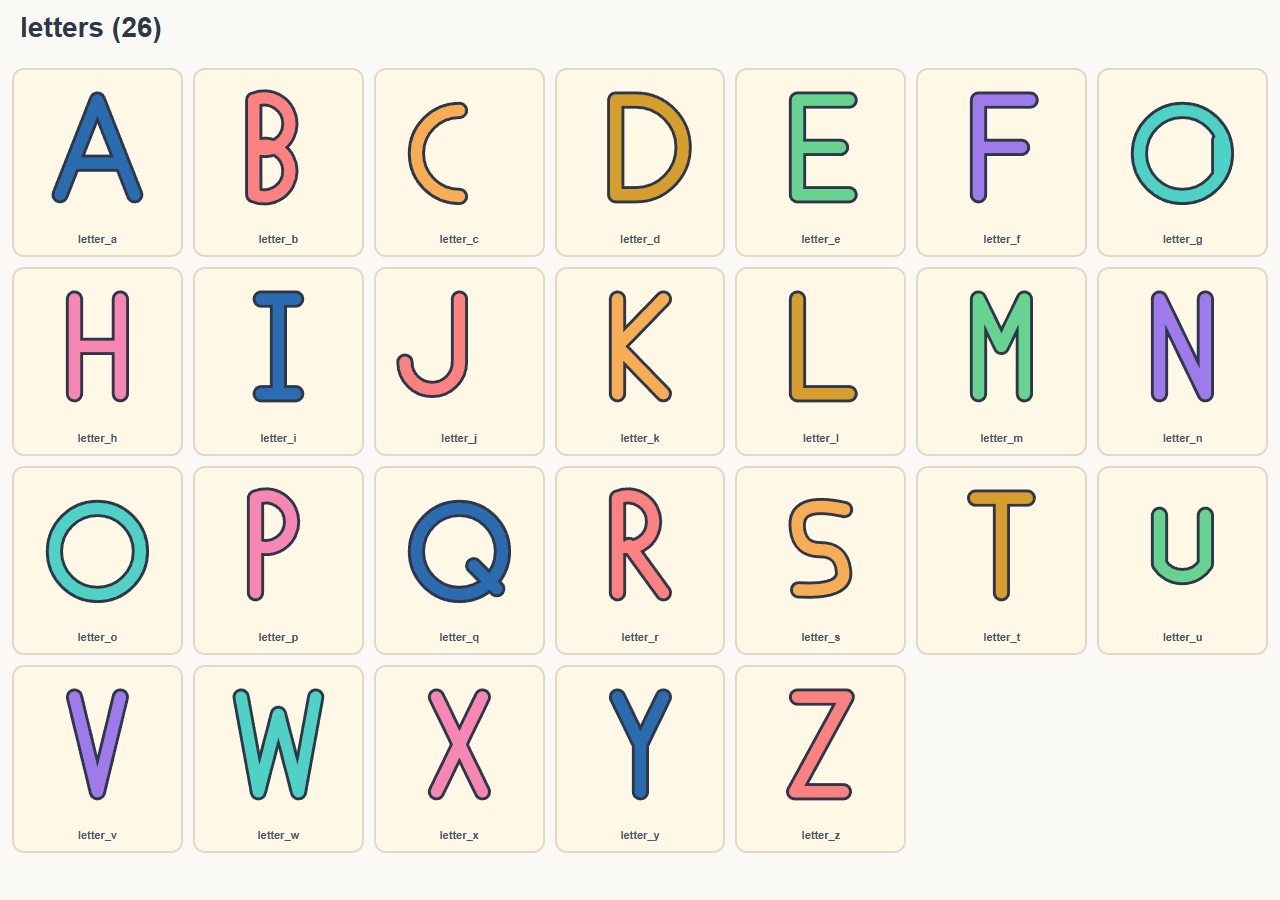
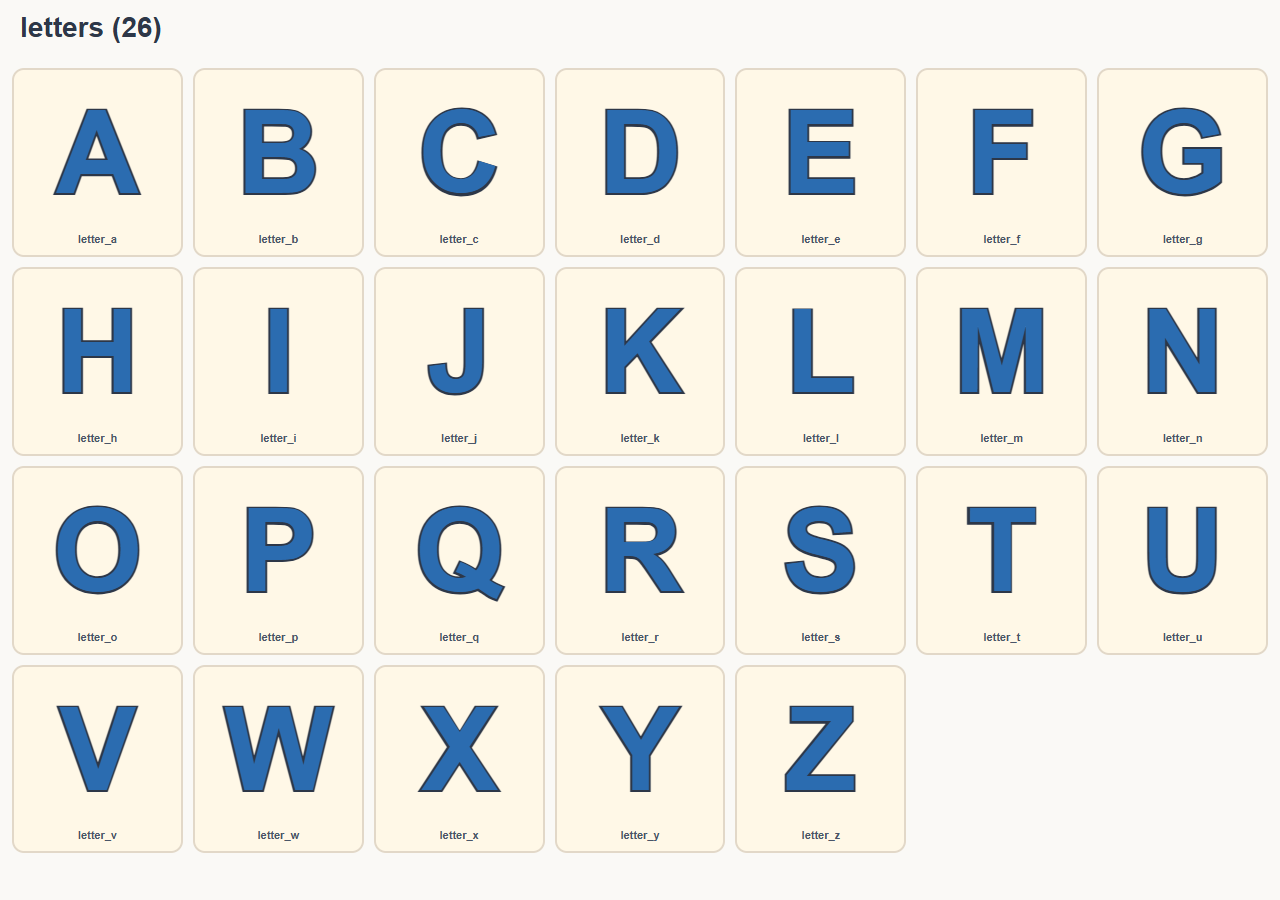
fix(assets): revert letters and numerals to pre-polish Arial text versions

diff --git a/docs/svg-contact-sheets/final/letters.html b/docs/svg-contact-sheets/final/letters.html
@@ -9,160 +9,82 @@
 </style></head><body>
 <h1>letters (26)</h1>
 <div class="grid"><div class="cell"><div class="art"><svg xmlns="http://www.w3.org/2000/svg" viewBox="0 0 512 512">
-  <g fill="none" stroke-linecap="round" stroke-linejoin="round">
-    <path d="M 126 400 L 256 70 L 386 400 M 176 290 L 336 290" stroke="#2D3748" stroke-width="60"/>
-    <path d="M 126 400 L 256 70 L 386 400 M 176 290 L 336 290" stroke="#2B6CB0" stroke-width="40"/>
-  </g>
+  <text x="256" y="256" text-anchor="middle" dominant-baseline="central" font-family="Arial, Helvetica, sans-serif" font-weight="bold" font-size="400" fill="#2B6CB0" stroke="#2D3748" stroke-width="14" paint-order="stroke fill">A</text>
 </svg>
 </div><div class="label">letter_a</div></div><div class="cell"><div class="art"><svg xmlns="http://www.w3.org/2000/svg" viewBox="0 0 512 512">
-  <g fill="none" stroke-linecap="round" stroke-linejoin="round">
-    <path d="M 170 400 L 170 70 A 90 90 0 1 1 170 235 A 90 90 0 1 1 170 400" stroke="#2D3748" stroke-width="60"/>
-    <path d="M 170 400 L 170 70 A 90 90 0 1 1 170 235 A 90 90 0 1 1 170 400" stroke="#FC8181" stroke-width="40"/>
-  </g>
+  <text x="256" y="256" text-anchor="middle" dominant-baseline="central" font-family="Arial, Helvetica, sans-serif" font-weight="bold" font-size="400" fill="#2B6CB0" stroke="#2D3748" stroke-width="14" paint-order="stroke fill">B</text>
 </svg>
 </div><div class="label">letter_b</div></div><div class="cell"><div class="art"><svg xmlns="http://www.w3.org/2000/svg" viewBox="0 0 512 512">
-  <g fill="none" stroke-linecap="round" stroke-linejoin="round">
-    <path d="M 256 106 A 150 150 0 1 0 256 406" stroke="#2D3748" stroke-width="60"/>
-    <path d="M 256 106 A 150 150 0 1 0 256 406" stroke="#F6AD55" stroke-width="40"/>
-  </g>
+  <text x="256" y="256" text-anchor="middle" dominant-baseline="central" font-family="Arial, Helvetica, sans-serif" font-weight="bold" font-size="400" fill="#2B6CB0" stroke="#2D3748" stroke-width="14" paint-order="stroke fill">C</text>
 </svg>
 </div><div class="label">letter_c</div></div><div class="cell"><div class="art"><svg xmlns="http://www.w3.org/2000/svg" viewBox="0 0 512 512">
-  <g fill="none" stroke-linecap="round" stroke-linejoin="round">
-    <path d="M 170 400 L 170 70 L 240 70 A 165 165 0 0 1 240 400 Z" stroke="#2D3748" stroke-width="60"/>
-    <path d="M 170 400 L 170 70 L 240 70 A 165 165 0 0 1 240 400 Z" stroke="#D69E2E" stroke-width="40"/>
-  </g>
+  <text x="256" y="256" text-anchor="middle" dominant-baseline="central" font-family="Arial, Helvetica, sans-serif" font-weight="bold" font-size="400" fill="#2B6CB0" stroke="#2D3748" stroke-width="14" paint-order="stroke fill">D</text>
 </svg>
 </div><div class="label">letter_d</div></div><div class="cell"><div class="art"><svg xmlns="http://www.w3.org/2000/svg" viewBox="0 0 512 512">
-  <g fill="none" stroke-linecap="round" stroke-linejoin="round">
-    <path d="M 176 70 L 356 70 M 176 235 L 326 235 M 176 400 L 356 400 M 176 70 L 176 400" stroke="#2D3748" stroke-width="60"/>
-    <path d="M 176 70 L 356 70 M 176 235 L 326 235 M 176 400 L 356 400 M 176 70 L 176 400" stroke="#68D391" stroke-width="40"/>
-  </g>
+  <text x="256" y="256" text-anchor="middle" dominant-baseline="central" font-family="Arial, Helvetica, sans-serif" font-weight="bold" font-size="400" fill="#2B6CB0" stroke="#2D3748" stroke-width="14" paint-order="stroke fill">E</text>
 </svg>
 </div><div class="label">letter_e</div></div><div class="cell"><div class="art"><svg xmlns="http://www.w3.org/2000/svg" viewBox="0 0 512 512">
-  <g fill="none" stroke-linecap="round" stroke-linejoin="round">
-    <path d="M 176 400 L 176 70 L 356 70 M 176 235 L 326 235" stroke="#2D3748" stroke-width="60"/>
-    <path d="M 176 400 L 176 70 L 356 70 M 176 235 L 326 235" stroke="#9F7AEA" stroke-width="40"/>
-  </g>
+  <text x="256" y="256" text-anchor="middle" dominant-baseline="central" font-family="Arial, Helvetica, sans-serif" font-weight="bold" font-size="400" fill="#2B6CB0" stroke="#2D3748" stroke-width="14" paint-order="stroke fill">F</text>
 </svg>
 </div><div class="label">letter_f</div></div><div class="cell"><div class="art"><svg xmlns="http://www.w3.org/2000/svg" viewBox="0 0 512 512">
-  <g fill="none" stroke-linecap="round" stroke-linejoin="round">
-    <path d="M 256 106 A 150 150 0 1 0 256 406 A 150 150 0 1 0 256 106 M 386 210 L 386 330" stroke="#2D3748" stroke-width="60"/>
-    <path d="M 256 106 A 150 150 0 1 0 256 406 A 150 150 0 1 0 256 106 M 386 210 L 386 330" stroke="#4FD1C5" stroke-width="40"/>
-  </g>
+  <text x="256" y="256" text-anchor="middle" dominant-baseline="central" font-family="Arial, Helvetica, sans-serif" font-weight="bold" font-size="400" fill="#2B6CB0" stroke="#2D3748" stroke-width="14" paint-order="stroke fill">G</text>
 </svg>
 </div><div class="label">letter_g</div></div><div class="cell"><div class="art"><svg xmlns="http://www.w3.org/2000/svg" viewBox="0 0 512 512">
-  <g fill="none" stroke-linecap="round" stroke-linejoin="round">
-    <path d="M 176 70 L 176 400 M 336 70 L 336 400 M 176 235 L 336 235" stroke="#2D3748" stroke-width="60"/>
-    <path d="M 176 70 L 176 400 M 336 70 L 336 400 M 176 235 L 336 235" stroke="#F687B3" stroke-width="40"/>
-  </g>
+  <text x="256" y="256" text-anchor="middle" dominant-baseline="central" font-family="Arial, Helvetica, sans-serif" font-weight="bold" font-size="400" fill="#2B6CB0" stroke="#2D3748" stroke-width="14" paint-order="stroke fill">H</text>
 </svg>
 </div><div class="label">letter_h</div></div><div class="cell"><div class="art"><svg xmlns="http://www.w3.org/2000/svg" viewBox="0 0 512 512">
-  <g fill="none" stroke-linecap="round" stroke-linejoin="round">
-    <path d="M 256 70 L 256 400 M 196 70 L 316 70 M 196 400 L 316 400" stroke="#2D3748" stroke-width="60"/>
-    <path d="M 256 70 L 256 400 M 196 70 L 316 70 M 196 400 L 316 400" stroke="#2B6CB0" stroke-width="40"/>
-  </g>
+  <text x="256" y="256" text-anchor="middle" dominant-baseline="central" font-family="Arial, Helvetica, sans-serif" font-weight="bold" font-size="400" fill="#2B6CB0" stroke="#2D3748" stroke-width="14" paint-order="stroke fill">I</text>
 </svg>
 </div><div class="label">letter_i</div></div><div class="cell"><div class="art"><svg xmlns="http://www.w3.org/2000/svg" viewBox="0 0 512 512">
-  <g fill="none" stroke-linecap="round" stroke-linejoin="round">
-    <path d="M 256 70 L 256 290 A 95 95 0 1 1 66 290" stroke="#2D3748" stroke-width="60"/>
-    <path d="M 256 70 L 256 290 A 95 95 0 1 1 66 290" stroke="#FC8181" stroke-width="40"/>
-  </g>
+  <text x="256" y="256" text-anchor="middle" dominant-baseline="central" font-family="Arial, Helvetica, sans-serif" font-weight="bold" font-size="400" fill="#2B6CB0" stroke="#2D3748" stroke-width="14" paint-order="stroke fill">J</text>
 </svg>
 </div><div class="label">letter_j</div></div><div class="cell"><div class="art"><svg xmlns="http://www.w3.org/2000/svg" viewBox="0 0 512 512">
-  <g fill="none" stroke-linecap="round" stroke-linejoin="round">
-    <path d="M 176 70 L 176 400 M 176 235 L 336 70 M 176 235 L 336 400" stroke="#2D3748" stroke-width="60"/>
-    <path d="M 176 70 L 176 400 M 176 235 L 336 70 M 176 235 L 336 400" stroke="#F6AD55" stroke-width="40"/>
-  </g>
+  <text x="256" y="256" text-anchor="middle" dominant-baseline="central" font-family="Arial, Helvetica, sans-serif" font-weight="bold" font-size="400" fill="#2B6CB0" stroke="#2D3748" stroke-width="14" paint-order="stroke fill">K</text>
 </svg>
 </div><div class="label">letter_k</div></div><div class="cell"><div class="art"><svg xmlns="http://www.w3.org/2000/svg" viewBox="0 0 512 512">
-  <g fill="none" stroke-linecap="round" stroke-linejoin="round">
-    <path d="M 176 70 L 176 400 L 356 400" stroke="#2D3748" stroke-width="60"/>
-    <path d="M 176 70 L 176 400 L 356 400" stroke="#D69E2E" stroke-width="40"/>
-  </g>
+  <text x="256" y="256" text-anchor="middle" dominant-baseline="central" font-family="Arial, Helvetica, sans-serif" font-weight="bold" font-size="400" fill="#2B6CB0" stroke="#2D3748" stroke-width="14" paint-order="stroke fill">L</text>
 </svg>
 </div><div class="label">letter_l</div></div><div class="cell"><div class="art"><svg xmlns="http://www.w3.org/2000/svg" viewBox="0 0 512 512">
-  <g fill="none" stroke-linecap="round" stroke-linejoin="round">
-    <path d="M 176 400 L 176 70 L 256 235 L 336 70 L 336 400" stroke="#2D3748" stroke-width="60"/>
-    <path d="M 176 400 L 176 70 L 256 235 L 336 70 L 336 400" stroke="#68D391" stroke-width="40"/>
-  </g>
+  <text x="256" y="256" text-anchor="middle" dominant-baseline="central" font-family="Arial, Helvetica, sans-serif" font-weight="bold" font-size="400" fill="#2B6CB0" stroke="#2D3748" stroke-width="14" paint-order="stroke fill">M</text>
 </svg>
 </div><div class="label">letter_m</div></div><div class="cell"><div class="art"><svg xmlns="http://www.w3.org/2000/svg" viewBox="0 0 512 512">
-  <g fill="none" stroke-linecap="round" stroke-linejoin="round">
-    <path d="M 176 400 L 176 70 L 336 400 L 336 70" stroke="#2D3748" stroke-width="60"/>
-    <path d="M 176 400 L 176 70 L 336 400 L 336 70" stroke="#9F7AEA" stroke-width="40"/>
-  </g>
+  <text x="256" y="256" text-anchor="middle" dominant-baseline="central" font-family="Arial, Helvetica, sans-serif" font-weight="bold" font-size="400" fill="#2B6CB0" stroke="#2D3748" stroke-width="14" paint-order="stroke fill">N</text>
 </svg>
 </div><div class="label">letter_n</div></div><div class="cell"><div class="art"><svg xmlns="http://www.w3.org/2000/svg" viewBox="0 0 512 512">
-  <g fill="none" stroke-linecap="round" stroke-linejoin="round">
-    <path d="M 256 106 A 150 150 0 1 0 256 406 A 150 150 0 1 0 256 106" stroke="#2D3748" stroke-width="60"/>
-    <path d="M 256 106 A 150 150 0 1 0 256 406 A 150 150 0 1 0 256 106" stroke="#4FD1C5" stroke-width="40"/>
-  </g>
+  <text x="256" y="256" text-anchor="middle" dominant-baseline="central" font-family="Arial, Helvetica, sans-serif" font-weight="bold" font-size="400" fill="#2B6CB0" stroke="#2D3748" stroke-width="14" paint-order="stroke fill">O</text>
 </svg>
 </div><div class="label">letter_o</div></div><div class="cell"><div class="art"><svg xmlns="http://www.w3.org/2000/svg" viewBox="0 0 512 512">
-  <g fill="none" stroke-linecap="round" stroke-linejoin="round">
-    <path d="M 176 400 L 176 70 A 90 90 0 1 1 176 235" stroke="#2D3748" stroke-width="60"/>
-    <path d="M 176 400 L 176 70 A 90 90 0 1 1 176 235" stroke="#F687B3" stroke-width="40"/>
-  </g>
+  <text x="256" y="256" text-anchor="middle" dominant-baseline="central" font-family="Arial, Helvetica, sans-serif" font-weight="bold" font-size="400" fill="#2B6CB0" stroke="#2D3748" stroke-width="14" paint-order="stroke fill">P</text>
 </svg>
 </div><div class="label">letter_p</div></div><div class="cell"><div class="art"><svg xmlns="http://www.w3.org/2000/svg" viewBox="0 0 512 512">
-  <g fill="none" stroke-linecap="round" stroke-linejoin="round">
-    <path d="M 256 106 A 150 150 0 1 0 256 406 A 150 150 0 1 0 256 106 M 306 306 L 386 386" stroke="#2D3748" stroke-width="60"/>
-    <path d="M 256 106 A 150 150 0 1 0 256 406 A 150 150 0 1 0 256 106 M 306 306 L 386 386" stroke="#2B6CB0" stroke-width="40"/>
-  </g>
+  <text x="256" y="256" text-anchor="middle" dominant-baseline="central" font-family="Arial, Helvetica, sans-serif" font-weight="bold" font-size="400" fill="#2B6CB0" stroke="#2D3748" stroke-width="14" paint-order="stroke fill">Q</text>
 </svg>
 </div><div class="label">letter_q</div></div><div class="cell"><div class="art"><svg xmlns="http://www.w3.org/2000/svg" viewBox="0 0 512 512">
-  <g fill="none" stroke-linecap="round" stroke-linejoin="round">
-    <path d="M 176 400 L 176 70 A 90 90 0 1 1 176 235 M 216 235 L 336 400" stroke="#2D3748" stroke-width="60"/>
-    <path d="M 176 400 L 176 70 A 90 90 0 1 1 176 235 M 216 235 L 336 400" stroke="#FC8181" stroke-width="40"/>
-  </g>
+  <text x="256" y="256" text-anchor="middle" dominant-baseline="central" font-family="Arial, Helvetica, sans-serif" font-weight="bold" font-size="400" fill="#2B6CB0" stroke="#2D3748" stroke-width="14" paint-order="stroke fill">R</text>
 </svg>
 </div><div class="label">letter_r</div></div><div class="cell"><div class="art"><svg xmlns="http://www.w3.org/2000/svg" viewBox="0 0 512 512">
-  <g fill="none" stroke-linecap="round" stroke-linejoin="round">
-    <path d="M 340 110 Q 160 70 176 180 Q 185 250 256 250 Q 327 250 336 320 Q 350 400 180 390" stroke="#2D3748" stroke-width="60"/>
-    <path d="M 340 110 Q 160 70 176 180 Q 185 250 256 250 Q 327 250 336 320 Q 350 400 180 390" stroke="#F6AD55" stroke-width="40"/>
-  </g>
+  <text x="256" y="256" text-anchor="middle" dominant-baseline="central" font-family="Arial, Helvetica, sans-serif" font-weight="bold" font-size="400" fill="#2B6CB0" stroke="#2D3748" stroke-width="14" paint-order="stroke fill">S</text>
 </svg>
 </div><div class="label">letter_s</div></div><div class="cell"><div class="art"><svg xmlns="http://www.w3.org/2000/svg" viewBox="0 0 512 512">
-  <g fill="none" stroke-linecap="round" stroke-linejoin="round">
-    <path d="M 166 70 L 346 70 M 256 70 L 256 400" stroke="#2D3748" stroke-width="60"/>
-    <path d="M 166 70 L 346 70 M 256 70 L 256 400" stroke="#D69E2E" stroke-width="40"/>
-  </g>
+  <text x="256" y="256" text-anchor="middle" dominant-baseline="central" font-family="Arial, Helvetica, sans-serif" font-weight="bold" font-size="400" fill="#2B6CB0" stroke="#2D3748" stroke-width="14" paint-order="stroke fill">T</text>
 </svg>
 </div><div class="label">letter_t</div></div><div class="cell"><div class="art"><svg xmlns="http://www.w3.org/2000/svg" viewBox="0 0 512 512">
-  <g fill="none" stroke-linecap="round" stroke-linejoin="round">
-    <path d="M 176 130 L 176 300 A 95 95 0 0 0 336 300 L 336 130" stroke="#2D3748" stroke-width="60"/>
-    <path d="M 176 130 L 176 300 A 95 95 0 0 0 336 300 L 336 130" stroke="#68D391" stroke-width="40"/>
-  </g>
+  <text x="256" y="256" text-anchor="middle" dominant-baseline="central" font-family="Arial, Helvetica, sans-serif" font-weight="bold" font-size="400" fill="#2B6CB0" stroke="#2D3748" stroke-width="14" paint-order="stroke fill">U</text>
 </svg>
 </div><div class="label">letter_u</div></div><div class="cell"><div class="art"><svg xmlns="http://www.w3.org/2000/svg" viewBox="0 0 512 512">
-  <g fill="none" stroke-linecap="round" stroke-linejoin="round">
-    <path d="M 176 70 L 256 400 L 336 70" stroke="#2D3748" stroke-width="60"/>
-    <path d="M 176 70 L 256 400 L 336 70" stroke="#9F7AEA" stroke-width="40"/>
-  </g>
+  <text x="256" y="256" text-anchor="middle" dominant-baseline="central" font-family="Arial, Helvetica, sans-serif" font-weight="bold" font-size="400" fill="#2B6CB0" stroke="#2D3748" stroke-width="14" paint-order="stroke fill">V</text>
 </svg>
 </div><div class="label">letter_v</div></div><div class="cell"><div class="art"><svg xmlns="http://www.w3.org/2000/svg" viewBox="0 0 512 512">
-  <g fill="none" stroke-linecap="round" stroke-linejoin="round">
-    <path d="M 126 70 L 186 400 L 256 130 L 326 400 L 386 70" stroke="#2D3748" stroke-width="60"/>
-    <path d="M 126 70 L 186 400 L 256 130 L 326 400 L 386 70" stroke="#4FD1C5" stroke-width="40"/>
-  </g>
+  <text x="256" y="256" text-anchor="middle" dominant-baseline="central" font-family="Arial, Helvetica, sans-serif" font-weight="bold" font-size="400" fill="#2B6CB0" stroke="#2D3748" stroke-width="14" paint-order="stroke fill">W</text>
 </svg>
 </div><div class="label">letter_w</div></div><div class="cell"><div class="art"><svg xmlns="http://www.w3.org/2000/svg" viewBox="0 0 512 512">
-  <g fill="none" stroke-linecap="round" stroke-linejoin="round">
-    <path d="M 176 70 L 336 400 M 336 70 L 176 400" stroke="#2D3748" stroke-width="60"/>
-    <path d="M 176 70 L 336 400 M 336 70 L 176 400" stroke="#F687B3" stroke-width="40"/>
-  </g>
+  <text x="256" y="256" text-anchor="middle" dominant-baseline="central" font-family="Arial, Helvetica, sans-serif" font-weight="bold" font-size="400" fill="#2B6CB0" stroke="#2D3748" stroke-width="14" paint-order="stroke fill">X</text>
 </svg>
 </div><div class="label">letter_x</div></div><div class="cell"><div class="art"><svg xmlns="http://www.w3.org/2000/svg" viewBox="0 0 512 512">
-  <g fill="none" stroke-linecap="round" stroke-linejoin="round">
-    <path d="M 176 70 L 256 235 L 336 70 M 256 235 L 256 400" stroke="#2D3748" stroke-width="60"/>
-    <path d="M 176 70 L 256 235 L 336 70 M 256 235 L 256 400" stroke="#2B6CB0" stroke-width="40"/>
-  </g>
+  <text x="256" y="256" text-anchor="middle" dominant-baseline="central" font-family="Arial, Helvetica, sans-serif" font-weight="bold" font-size="400" fill="#2B6CB0" stroke="#2D3748" stroke-width="14" paint-order="stroke fill">Y</text>
 </svg>
 </div><div class="label">letter_y</div></div><div class="cell"><div class="art"><svg xmlns="http://www.w3.org/2000/svg" viewBox="0 0 512 512">
-  <g fill="none" stroke-linecap="round" stroke-linejoin="round">
-    <path d="M 176 70 L 346 70 L 166 400 L 336 400" stroke="#2D3748" stroke-width="60"/>
-    <path d="M 176 70 L 346 70 L 166 400 L 336 400" stroke="#FC8181" stroke-width="40"/>
-  </g>
+  <text x="256" y="256" text-anchor="middle" dominant-baseline="central" font-family="Arial, Helvetica, sans-serif" font-weight="bold" font-size="400" fill="#2B6CB0" stroke="#2D3748" stroke-width="14" paint-order="stroke fill">Z</text>
 </svg>
 </div><div class="label">letter_z</div></div></div>
 </body></html>

diff --git a/docs/svg-contact-sheets/final/numbers.html b/docs/svg-contact-sheets/final/numbers.html
@@ -9,64 +9,34 @@
 </style></head><body>
 <h1>numbers (10)</h1>
 <div class="grid"><div class="cell"><div class="art"><svg xmlns="http://www.w3.org/2000/svg" viewBox="0 0 512 512">
-  <g fill="none" stroke-linecap="round" stroke-linejoin="round">
-    <path d="M 256 116 A 140 140 0 1 0 256 396 A 140 140 0 1 0 256 116" stroke="#2D3748" stroke-width="60"/>
-    <path d="M 256 116 A 140 140 0 1 0 256 396 A 140 140 0 1 0 256 116" stroke="#2B6CB0" stroke-width="40"/>
-  </g>
+  <text x="256" y="256" text-anchor="middle" dominant-baseline="central" font-family="Arial, Helvetica, sans-serif" font-weight="bold" font-size="400" fill="#2B6CB0" stroke="#2D3748" stroke-width="14" paint-order="stroke fill">0</text>
 </svg>
 </div><div class="label">numeral_0</div></div><div class="cell"><div class="art"><svg xmlns="http://www.w3.org/2000/svg" viewBox="0 0 512 512">
-  <g fill="none" stroke-linecap="round" stroke-linejoin="round">
-    <path d="M 312 64 Q 268 52 246 96 L 246 400 M 176 400 L 326 400" stroke="#2D3748" stroke-width="60"/>
-    <path d="M 312 64 Q 268 52 246 96 L 246 400 M 176 400 L 326 400" stroke="#FC8181" stroke-width="40"/>
-  </g>
+  <text x="256" y="256" text-anchor="middle" dominant-baseline="central" font-family="Arial, Helvetica, sans-serif" font-weight="bold" font-size="400" fill="#2B6CB0" stroke="#2D3748" stroke-width="14" paint-order="stroke fill">1</text>
 </svg>
 </div><div class="label">numeral_1</div></div><div class="cell"><div class="art"><svg xmlns="http://www.w3.org/2000/svg" viewBox="0 0 512 512">
-  <g fill="none" stroke-linecap="round" stroke-linejoin="round">
-    <path d="M 166 150 Q 256 40 346 145 Q 355 240 265 295 L 170 400 L 346 400" stroke="#2D3748" stroke-width="60"/>
-    <path d="M 166 150 Q 256 40 346 145 Q 355 240 265 295 L 170 400 L 346 400" stroke="#F6AD55" stroke-width="40"/>
-  </g>
+  <text x="256" y="256" text-anchor="middle" dominant-baseline="central" font-family="Arial, Helvetica, sans-serif" font-weight="bold" font-size="400" fill="#2B6CB0" stroke="#2D3748" stroke-width="14" paint-order="stroke fill">2</text>
 </svg>
 </div><div class="label">numeral_2</div></div><div class="cell"><div class="art"><svg xmlns="http://www.w3.org/2000/svg" viewBox="0 0 512 512">
-  <g fill="none" stroke-linecap="round" stroke-linejoin="round">
-    <path d="M 180 120 Q 180 80 240 80 Q 310 80 310 165 Q 310 215 260 250 Q 320 280 320 340 Q 320 420 230 420 Q 140 420 140 350" stroke="#2D3748" stroke-width="60"/>
-    <path d="M 180 120 Q 180 80 240 80 Q 310 80 310 165 Q 310 215 260 250 Q 320 280 320 340 Q 320 420 230 420 Q 140 420 140 350" stroke="#D69E2E" stroke-width="40"/>
-  </g>
+  <text x="256" y="256" text-anchor="middle" dominant-baseline="central" font-family="Arial, Helvetica, sans-serif" font-weight="bold" font-size="400" fill="#2B6CB0" stroke="#2D3748" stroke-width="14" paint-order="stroke fill">3</text>
 </svg>
 </div><div class="label">numeral_3</div></div><div class="cell"><div class="art"><svg xmlns="http://www.w3.org/2000/svg" viewBox="0 0 512 512">
-  <g fill="none" stroke-linecap="round" stroke-linejoin="round">
-    <path d="M 336 90 L 216 250 M 156 250 L 336 250 M 336 90 L 336 400" stroke="#2D3748" stroke-width="60"/>
-    <path d="M 336 90 L 216 250 M 156 250 L 336 250 M 336 90 L 336 400" stroke="#68D391" stroke-width="40"/>
-  </g>
+  <text x="256" y="256" text-anchor="middle" dominant-baseline="central" font-family="Arial, Helvetica, sans-serif" font-weight="bold" font-size="400" fill="#2B6CB0" stroke="#2D3748" stroke-width="14" paint-order="stroke fill">4</text>
 </svg>
 </div><div class="label">numeral_4</div></div><div class="cell"><div class="art"><svg xmlns="http://www.w3.org/2000/svg" viewBox="0 0 512 512">
-  <g fill="none" stroke-linecap="round" stroke-linejoin="round">
-    <path d="M 346 80 L 166 80 L 166 235 L 306 235 A 85 85 0 0 1 306 400 L 176 400" stroke="#2D3748" stroke-width="60"/>
-    <path d="M 346 80 L 166 80 L 166 235 L 306 235 A 85 85 0 0 1 306 400 L 176 400" stroke="#9F7AEA" stroke-width="40"/>
-  </g>
+  <text x="256" y="256" text-anchor="middle" dominant-baseline="central" font-family="Arial, Helvetica, sans-serif" font-weight="bold" font-size="400" fill="#2B6CB0" stroke="#2D3748" stroke-width="14" paint-order="stroke fill">5</text>
 </svg>
 </div><div class="label">numeral_5</div></div><div class="cell"><div class="art"><svg xmlns="http://www.w3.org/2000/svg" viewBox="0 0 512 512">
-  <g fill="none" stroke-linecap="round" stroke-linejoin="round">
-    <path d="M 240 82 A 58 58 0 1 0 240 198 A 58 58 0 1 0 240 82 M 199 181 Q 185 215 175 249 M 256 215 A 115 115 0 1 0 256 445 A 115 115 0 1 0 256 215" stroke="#2D3748" stroke-width="60"/>
-    <path d="M 240 82 A 58 58 0 1 0 240 198 A 58 58 0 1 0 240 82 M 199 181 Q 185 215 175 249 M 256 215 A 115 115 0 1 0 256 445 A 115 115 0 1 0 256 215" stroke="#4FD1C5" stroke-width="40"/>
-  </g>
+  <text x="256" y="256" text-anchor="middle" dominant-baseline="central" font-family="Arial, Helvetica, sans-serif" font-weight="bold" font-size="400" fill="#2B6CB0" stroke="#2D3748" stroke-width="14" paint-order="stroke fill">6</text>
 </svg>
 </div><div class="label">numeral_6</div></div><div class="cell"><div class="art"><svg xmlns="http://www.w3.org/2000/svg" viewBox="0 0 512 512">
-  <g fill="none" stroke-linecap="round" stroke-linejoin="round">
-    <path d="M 166 80 L 336 80 Q 326 220 256 400" stroke="#2D3748" stroke-width="60"/>
-    <path d="M 166 80 L 336 80 Q 326 220 256 400" stroke="#F687B3" stroke-width="40"/>
-  </g>
+  <text x="256" y="256" text-anchor="middle" dominant-baseline="central" font-family="Arial, Helvetica, sans-serif" font-weight="bold" font-size="400" fill="#2B6CB0" stroke="#2D3748" stroke-width="14" paint-order="stroke fill">7</text>
 </svg>
 </div><div class="label">numeral_7</div></div><div class="cell"><div class="art"><svg xmlns="http://www.w3.org/2000/svg" viewBox="0 0 512 512">
-  <g fill="none" stroke-linecap="round" stroke-linejoin="round">
-    <path d="M 256 80 A 80 80 0 1 1 256 240 A 80 80 0 1 1 256 80 M 256 260 A 80 80 0 1 1 256 420 A 80 80 0 1 1 256 260" stroke="#2D3748" stroke-width="60"/>
-    <path d="M 256 80 A 80 80 0 1 1 256 240 A 80 80 0 1 1 256 80 M 256 260 A 80 80 0 1 1 256 420 A 80 80 0 1 1 256 260" stroke="#2B6CB0" stroke-width="40"/>
-  </g>
+  <text x="256" y="256" text-anchor="middle" dominant-baseline="central" font-family="Arial, Helvetica, sans-serif" font-weight="bold" font-size="400" fill="#2B6CB0" stroke="#2D3748" stroke-width="14" paint-order="stroke fill">8</text>
 </svg>
 </div><div class="label">numeral_8</div></div><div class="cell"><div class="art"><svg xmlns="http://www.w3.org/2000/svg" viewBox="0 0 512 512">
-  <g fill="none" stroke-linecap="round" stroke-linejoin="round">
-    <path d="M 256 70 A 115 115 0 1 0 256 300 A 115 115 0 1 0 256 70 M 337 266 Q 380 340 330 400 Q 300 420 254 412" stroke="#2D3748" stroke-width="60"/>
-    <path d="M 256 70 A 115 115 0 1 0 256 300 A 115 115 0 1 0 256 70 M 337 266 Q 380 340 330 400 Q 300 420 254 412" stroke="#FC8181" stroke-width="40"/>
-  </g>
+  <text x="256" y="256" text-anchor="middle" dominant-baseline="central" font-family="Arial, Helvetica, sans-serif" font-weight="bold" font-size="400" fill="#2B6CB0" stroke="#2D3748" stroke-width="14" paint-order="stroke fill">9</text>
 </svg>
 </div><div class="label">numeral_9</div></div></div>
 </body></html>

diff --git a/docs/SVG_STYLE.md b/docs/SVG_STYLE.md
@@ -49,7 +49,9 @@ Filled shapes (circles, hearts, animal bodies): fill + outer stroke in one pass 
 
 ## 4. Letterforms & Numerals (letters/, numbers/)
 
-**Replace all `<text>` elements with custom stroked paths.**
+**Reverted to system-font `<text>` glyphs (2026-08-06, track feedback round 2):** the custom stroked-path letterforms were replaced back with the pre-polish Arial style — bold uppercase `Arial, Helvetica, sans-serif`, 400px, `fill="#2B6CB0"`, `stroke="#2D3748" stroke-width="14"`, `paint-order="stroke fill"`, centered at 256/256. Letters are distinguished by shape only (identical styling across all 26 + 10). Known tradeoff: outline reads thin vs the rest of the library — acceptable; custom paths are NOT to be reintroduced for letters/numbers without product sign-off.
+
+Retained guidance for any *other* stroked text (stickers/tiles accents):
 
 | Metric | Value |
 |---|---|
@@ -68,7 +70,7 @@ Construction: each glyph is 1–4 stroke paths (vertical, diagonal, arc segments
 |---|---|---|
 | `shapes/` | shape fills ≈ 65–75% of canvas (r ≈ 175–200) | Every shape must have a clearly readable mass; crescent is a closed moon (outer + inner arc), ring is a thick annulus (stroke ≥ 70px) |
 | `shapes/cutout_*` | identical geometry to `shape_*`, **same hue family** (pastel tint) | `stroke-dasharray="10 24"`, stroke width ≈ 12–14, transparent fill |
-| `letters/`, `numbers/` | §4 above | No `<text>` allowed (grep-verified) |
+| `letters/`, `numbers/` | §4 above | System-font `<text>` glyphs (Arial 400px bold, `paint-order="stroke fill"`) — `<text>` is allowed and required here (see §4) |
 | `animals/` | character fills ≈ 80–85% of canvas | Head ≥ 40% of canvas; eyes ≥ 24px diameter each; species-identifying feature must be silhouette-visible (trunk, snout, ears, whiskers) |
 | `toys/` | object fills ≈ 75–85% | Gravity: flame/rocket oriented **downward-launch** (rocket: nose up, flames at bottom) |
 | `items/` | object fills ≈ 65–75% | Object must be identifiable at 64px; duplicates (ball, car) differ from toy versions in line work + concept |
